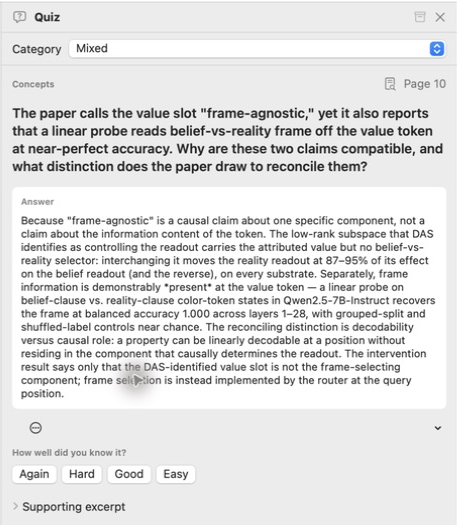
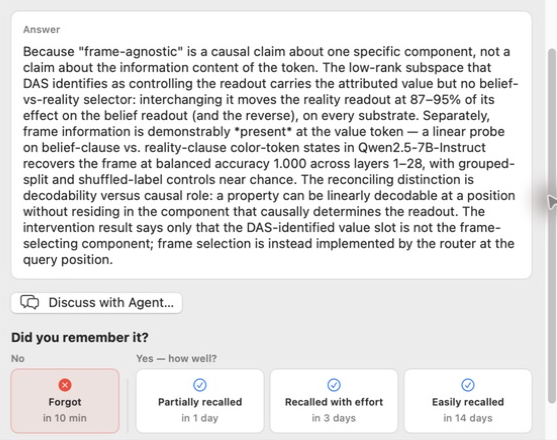
Refresh Quiz feature section

diff --git a/site/index.html b/site/index.html
@@ -372,12 +372,12 @@
 
     <div class="feature-row visual-right">
       <div class="feature-copy">
-        <p>That panel can become a quiz. It asks a question grounded in the paper, keeps the answer hidden until you're ready, and schedules the question again from your Again, Hard, Good, or Easy rating. Every card links back to the page and passage that supports it. This works for source documents and ordinary PDFs, as long as the PDF has searchable text.</p>
+        <p>That panel can become a quiz. It asks a question grounded in the paper and keeps the answer hidden until you're ready. Mark a miss as Forgot, or say whether you recalled it partially, with effort, or easily; each choice shows when the question will return. You can continue the question in the Agent conversation, or jump back to the page and passage that supports it. This works for source documents and ordinary PDFs, as long as the PDF has searchable text.</p>
       </div>
       <figure>
-        <img src="assets/crop-quiz.png" width="457" height="525" loading="lazy"
-             alt="A paper quiz with a source-backed question, its revealed answer, and Again, Hard, Good, and Easy rating buttons.">
-        <figcaption>Reveal the answer, rate your recall, and jump back to the supporting page.</figcaption>
+        <img src="assets/crop-quiz.png" width="557" height="440" loading="lazy"
+             alt="A revealed paper-quiz answer with a Discuss with Agent button and a compact strip of four recall choices with review intervals.">
+        <figcaption>Reveal the answer, rate your recall, or keep talking with the Agent.</figcaption>
       </figure>
     </div>
 

diff --git a/site/assets/README.md b/site/assets/README.md
@@ -24,7 +24,7 @@ larger feature captures alternate beside their text in two-column rows.
 | `crop-note.png` | `.mfig` | notes paragraph | A note card: quoted text plus comment |
 | `crop-highlight-sm.png` | `.mid` | notes paragraph | The highlighted phrase in the rendered page |
 | `crop-review.png` | `.feature-row` | review row, left | One review card with original and proposed text |
-| `crop-quiz.png` | `.feature-row` | quiz row, right | Revealed answer and recall rating controls |
+| `crop-quiz.png` | `.feature-row` | quiz row, right | Revealed answer, Agent handoff, and compact recall strip |
 | `crop-presentation-remote.png` | `.feature-row` | presentation row, left | Responsive phone remote with slide preview |
 
 ## Sizing
